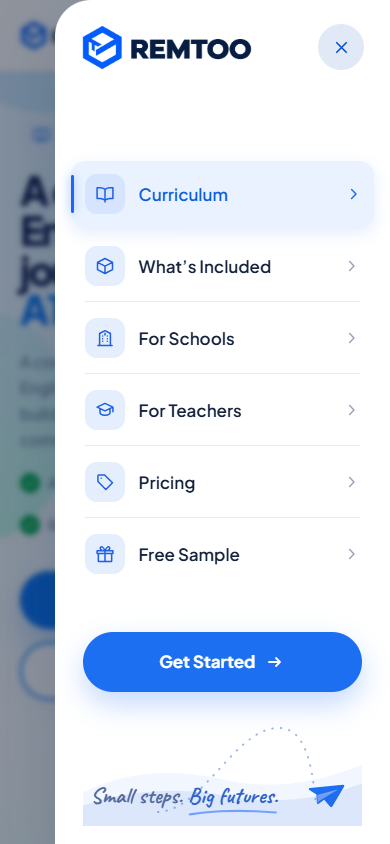
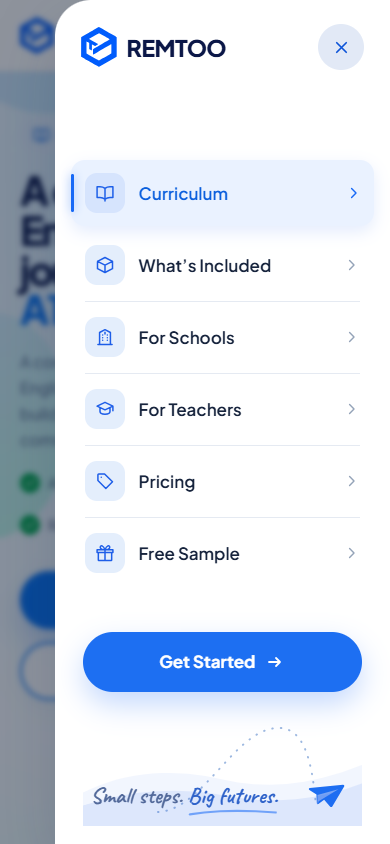
go

diff --git a/css/site-system.css b/css/site-system.css
@@ -405,7 +405,8 @@
 .global-brand__icon {
   display: block;
   width: 32px;
-  height: 32px;
+  height: auto;
+  aspect-ratio: 209 / 230;
   object-fit: contain;
   flex-shrink: 0;
 }
@@ -662,7 +663,6 @@
 
 .global-mobile-nav .global-brand__icon {
   width: 38px;
-  height: 38px;
 }
 
 .global-mobile-nav .global-brand__wordmark {
@@ -1210,7 +1210,6 @@ html.site-shell-nav-open body {
 
 .global-footer__brand .global-brand__icon {
   width: 38px;
-  height: 38px;
 }
 
 .global-footer__brand .global-brand__wordmark {
@@ -1907,7 +1906,6 @@ html.site-shell-nav-open body {
   /* Compact header brand on small phones; drawer keeps its roomier size. */
   .global-header .global-brand__icon {
     width: 34px;
-    height: 34px;
   }
 
   .global-header .global-brand__wordmark {
@@ -1916,7 +1914,6 @@ html.site-shell-nav-open body {
 
   .global-mobile-nav .global-brand__icon {
     width: 36px;
-    height: 36px;
   }
 
   .global-mobile-nav .global-brand__wordmark {
